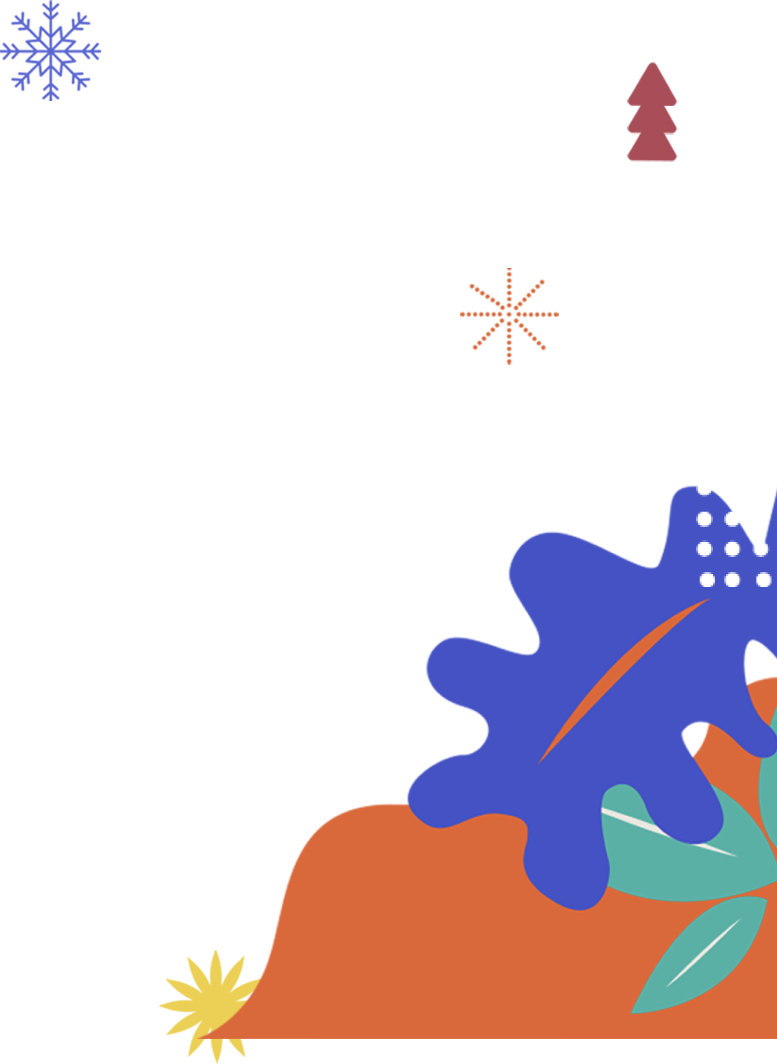
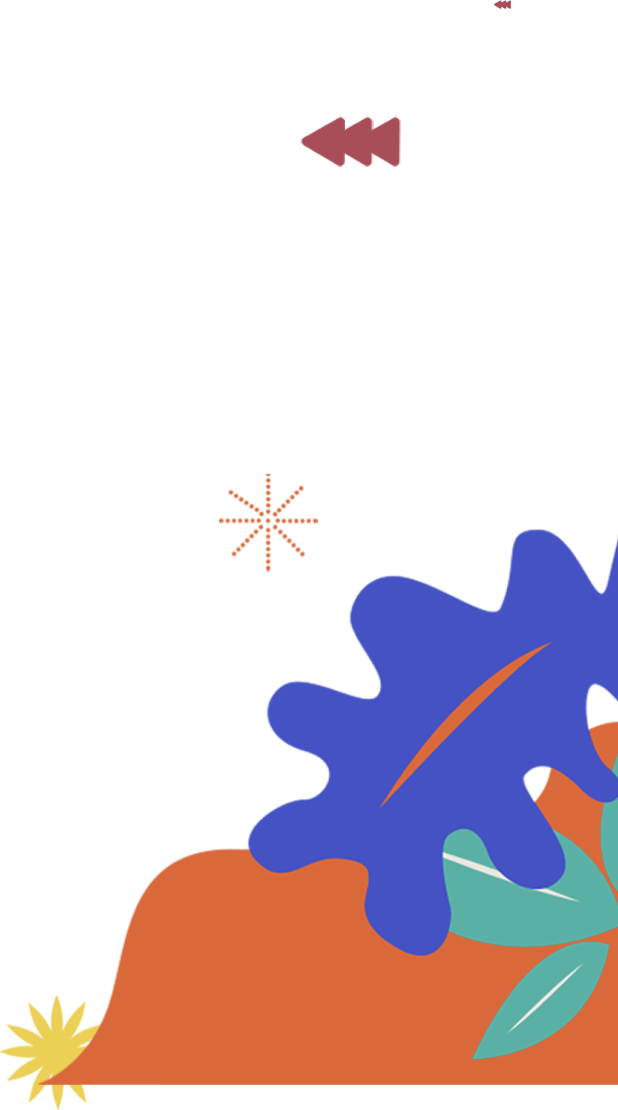
nambah banyak gw lupa wkwk termasuk animasi

diff --git a/src/containers/LandingPage/index.js b/src/containers/LandingPage/index.js
@@ -1,23 +1,35 @@
 import React from "react";
+import { Carousel } from "react-responsive-carousel";
+import "react-responsive-carousel/lib/styles/carousel.min.css";
 // import PropTypes from "prop-types";
 // import { connect } from "react-redux";
 
 import HeaderFooter from "../../components/HeaderFooter";
 // import logoGede from "../../asset/logoGede.png";
 import avatar from "../../asset/avatar.png";
-import prayaFerdi from "../../asset/prayaFerdi.png";
-import om from "../../asset/om.png";
+import avatarIjug from "../../asset/avatarIjug.png";
+import prayaFerdi2 from "../../asset/prayaFerdi2.png";
+import om2 from "../../asset/om2.png";
+import dekorYellow from "../../asset/dekorYellow.png";
+import dekorBlue from "../../asset/dekorBlue.png";
+import ball from "../../asset/ball.png";
 
 import {
   LandingPageContainer,
   FirstSection,
   SecondSection,
-  ThirdSection,
   FourthSection,
   FifthSection
 } from "./style";
 
 class LandingPage extends React.Component {
+  constructor() {
+    super();
+    this.state = {
+      stateAvatar: "fun"
+    };
+  }
+
   render() {
     const handleClickAvatar = event => {
       for (
@@ -29,17 +41,31 @@ class LandingPage extends React.Component {
           .getElementsByClassName("avatar-button")
           [i].classList.remove("yellowed");
       }
-
       if (!event.target.classList.contains("yellowed")) {
         event.target.classList.add("yellowed");
+
+        if (event.target.classList.contains("fun")) {
+          this.setState({ stateAvatar: "fun" });
+        } else if (event.target.classList.contains("fresh")) {
+          this.setState({ stateAvatar: "fresh" });
+        } else if (event.target.classList.contains("comprehensive")) {
+          this.setState({ stateAvatar: "comprehensive" });
+        }
       }
     };
+
+    const { stateAvatar } = this.state;
+    let imgAvatar = avatar;
+    if (stateAvatar === "fresh") imgAvatar = avatarIjug;
+    if (stateAvatar === "comprehensive") imgAvatar = avatarIjug;
     return (
       <LandingPageContainer>
         <HeaderFooter color="blue">
           <FirstSection>
+            <img className="dekorYellow" src={dekorYellow} alt="matahari" />
+            <img className="dekorBlue" src={dekorBlue} alt="snowflake" />
             <h1 className="title">SELAMAT DATANG</h1>
-            <img className="avatar" src={avatar} alt="avatar" />
+            <img className="avatar" id="avatar" src={imgAvatar} alt="avatar" />
             <div className="tema">
               <button
                 type="button"
@@ -67,6 +93,7 @@ class LandingPage extends React.Component {
             </div>
           </FirstSection>
           <SecondSection>
+            <img className="ball" src={ball} alt="ball" />
             <h1 className="apa-itu">APA ITU PERAK?</h1>
             <p className="full-desc">
               Lorem ipsum dolor sit amet et delectus accommodare his consul
@@ -79,14 +106,44 @@ class LandingPage extends React.Component {
               efficiantur et tollit aliquip debitis mei. No deserunt
               mediocritatem mel. Lorem
             </p>
-            <img className="praya-ferdi" src={prayaFerdi} alt="praya ferdi" />
-            <img className="om" src={om} alt="om" />
+            <img className="praya-ferdi" src={prayaFerdi2} alt="praya ferdi" />
+            <img className="om" src={om2} alt="om" />
           </SecondSection>
-          <ThirdSection>
-            <h1>COUNT DOWN</h1>
-          </ThirdSection>
+
           <FourthSection>
             <h1 className="liga-title">LIGA 2020</h1>
+            <Carousel
+              className="image-carousel"
+              showStatus={false}
+              showThumbs={false}
+              infiniteLoop
+              autoPlay
+            >
+              <div>
+                <img
+                  className="avatar"
+                  id="avatar"
+                  src={imgAvatar}
+                  alt="avatar"
+                />
+              </div>
+              <div>
+                <img
+                  className="avatar"
+                  id="avatar"
+                  src={imgAvatar}
+                  alt="avatar"
+                />
+              </div>
+              <div>
+                <img
+                  className="avatar"
+                  id="avatar"
+                  src={imgAvatar}
+                  alt="avatar"
+                />
+              </div>
+            </Carousel>
             <button type="button" className="daftar-button">
               DAFTAR SEKARANG
             </button>

diff --git a/src/containers/LandingPage/style.js b/src/containers/LandingPage/style.js
@@ -3,9 +3,8 @@ import styled from "styled-components";
 import background from "../../asset/firstSectionBackground.png";
 import backgroundLeft from "../../asset/firstSectionBackgroundLeft.png";
 import secondBG from "../../asset/secondSectionBG.png";
-import secondBGLeft from "../../asset/secondSectionBGLeft.png";
 import thirdBG from "../../asset/thirdSectionBG.png";
-import fourthBG from "../../asset/fourthSectionBG.png";
+import fourthBG from "../../asset/fourthSectionBG.svg";
 import daftarButton from "../../asset/daftarButton.png";
 
 const yellow = "#F1CF33";
@@ -29,22 +28,75 @@ export const FirstSection = styled.section`
   height: 100vh;
   width: 100%;
   background-color: ${green};
-  background-size: 500px, contain;
+  background-size: 120px, contain;
   background-image: url(${backgroundLeft}), url(${background});
   background-repeat: no-repeat;
   background-position-x: left, right;
-  background-position-y: 0px, 30px;
+  background-position-y: bottom, 30px;
   background-attachment: fixed;
   display: flex;
   flex-direction: column;
   align-items: center;
+  .dekorBlue,
+  .dekorYellow {
+    position: absolute;
+    width: 80px;
+  }
+  @-moz-keyframes spin {
+    100% {
+      -moz-transform: rotate(360deg);
+    }
+  }
+  @-webkit-keyframes spin {
+    100% {
+      -webkit-transform: rotate(360deg);
+    }
+  }
+  @keyframes spin {
+    100% {
+      -webkit-transform: rotate(360deg);
+      transform: rotate(360deg);
+    }
+  }
+
+  @-moz-keyframes spinLeft {
+    100% {
+      -moz-transform: rotate(-360deg);
+    }
+  }
+  @-webkit-keyframes spinLeft {
+    100% {
+      -webkit-transform: rotate(-360deg);
+    }
+  }
+  @keyframes spinLeft {
+    100% {
+      -webkit-transform: rotate(-360deg);
+      transform: rotate(-360deg);
+    }
+  }
+  .dekorYellow {
+    top: 40px;
+    left: -20px;
+    -webkit-animation: spin 10s linear infinite;
+    -moz-animation: spin 10s linear infinite;
+    animation: spin 10s linear infinite;
+  }
+  .dekorBlue {
+    top: 50vh;
+    left: 10vw;
+    -webkit-animation: spinLeft 10s linear infinite;
+    -moz-animation: spinLeft 10s linear infinite;
+    animation: spinLeft 10s linear infinite;
+  }
+
   .title {
     font-family: "Montserrat", sans-serif;
     font-weight: bold;
     text-align: center;
     color: ${yellow};
     text-shadow: 5px 8px ${dark};
-    font-size: calc(3rem + 1vw);
+    font-size: calc(4rem + 1vw);
     margin: 50px;
   }
   .avatar {
@@ -87,14 +139,23 @@ export const SecondSection = styled.section`
   width: 100%;
   background-color: ${yellow};
   background-repeat: no-repeat;
-  background-image: url(${secondBGLeft}), url(${secondBG});
-  background-position-x: 250px, right;
-  background-position-y: 300px, 60px;
+  background-image: url(${secondBG});
+  background-position-x: right;
+  background-position-y: 60px;
 
   display: flex;
   flex-direction: column;
   align-items: center;
   padding-top: 150px;
+
+  .ball {
+    position: absolute;
+    top: calc(100vh + 350px);
+    left: 230px;
+    -webkit-animation: spin 4s linear infinite;
+    -moz-animation: spin 4s linear infinite;
+    animation: spin 4s linear infinite;
+  }
   .apa-itu {
     color: ${blue};
     font-size: bold;
@@ -143,13 +204,18 @@ export const FourthSection = styled.section`
   width: 100%;
   background-color: #e5e6de;
   background-image: url(${fourthBG});
+  background-size: 90%;
   background-repeat: no-repeat;
   background-position: center;
   padding-top: 180px;
   display: flex;
   flex-direction: column;
   align-items: center;
-
+  .image-carousel {
+    margin-top: 30px;
+    width: 500px;
+    height: 500px;
+  }
   .liga-title {
     color: ${yellow};
     font-family: "Montserrat", sans-serif;

diff --git a/public/index.html b/public/index.html
@@ -7,6 +7,17 @@
       href="https://fonts.googleapis.com/css?family=Montserrat:400,700&display=swap"
       rel="stylesheet"
     />
+    <link
+      rel="stylesheet"
+      type="text/css"
+      charset="UTF-8"
+      href="https://cdnjs.cloudflare.com/ajax/libs/slick-carousel/1.6.0/slick.min.css"
+    />
+    <link
+      rel="stylesheet"
+      type="text/css"
+      href="https://cdnjs.cloudflare.com/ajax/libs/slick-carousel/1.6.0/slick-theme.min.css"
+    />
     <meta
       name="viewport"
       content="width=device-width, initial-scale=1, shrink-to-fit=no"
